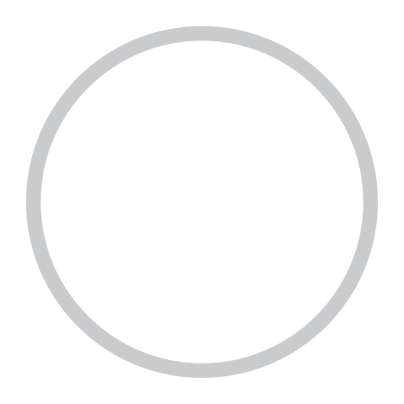
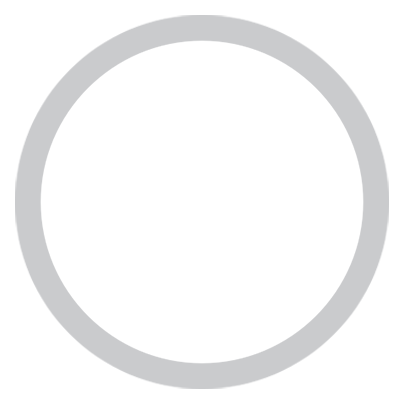
css code update

Changed region(s): [[0.0297, 0.0297, 0.9802, 0.9802]]

diff --git a/style/style.css b/style/style.css
@@ -14,8 +14,9 @@
 body {
   width: 100%;
   height: 100vh;
-  background-color: #9ecdfc;
-  /* background-image: linear-gradient(92deg, #8EC5FC 0%, #e5cffa 100%); */
+  background: url(../assets/img/bg.webp);
+  background-position: center;
+  background-size: cover;
   display: flex;
   align-items: center;
   justify-content: center;
@@ -23,7 +24,7 @@ body {
 }
 .title {
   text-transform: uppercase;
-  color: #0f93ef;
+  color: #0091f8;
   margin-bottom: 20px;
   text-align: center;
 }
@@ -97,8 +98,8 @@ ul li {
 }
 ul li::before {
   content: "";
-  width: 20px;
-  height: 20px;
+  width: 15px;
+  height: 15px;
   background-image: url(../assets/img/circle.png);
   background-size: cover;
   background-position: center;
@@ -125,7 +126,16 @@ ul li.checked::before {
   cursor: pointer;
 }
 
-@media screen and (max-width: 600px) {
+@media screen and (max-width: 700px) {
+  body {
+    width: 100%;
+    height: 100vh;
+    background-color: aqua;
+    display: flex;
+    align-items: center;
+    justify-content: center;
+    font-family: "poppins", sans-serif;
+  }
   .container {
     width: 80%;
   }
